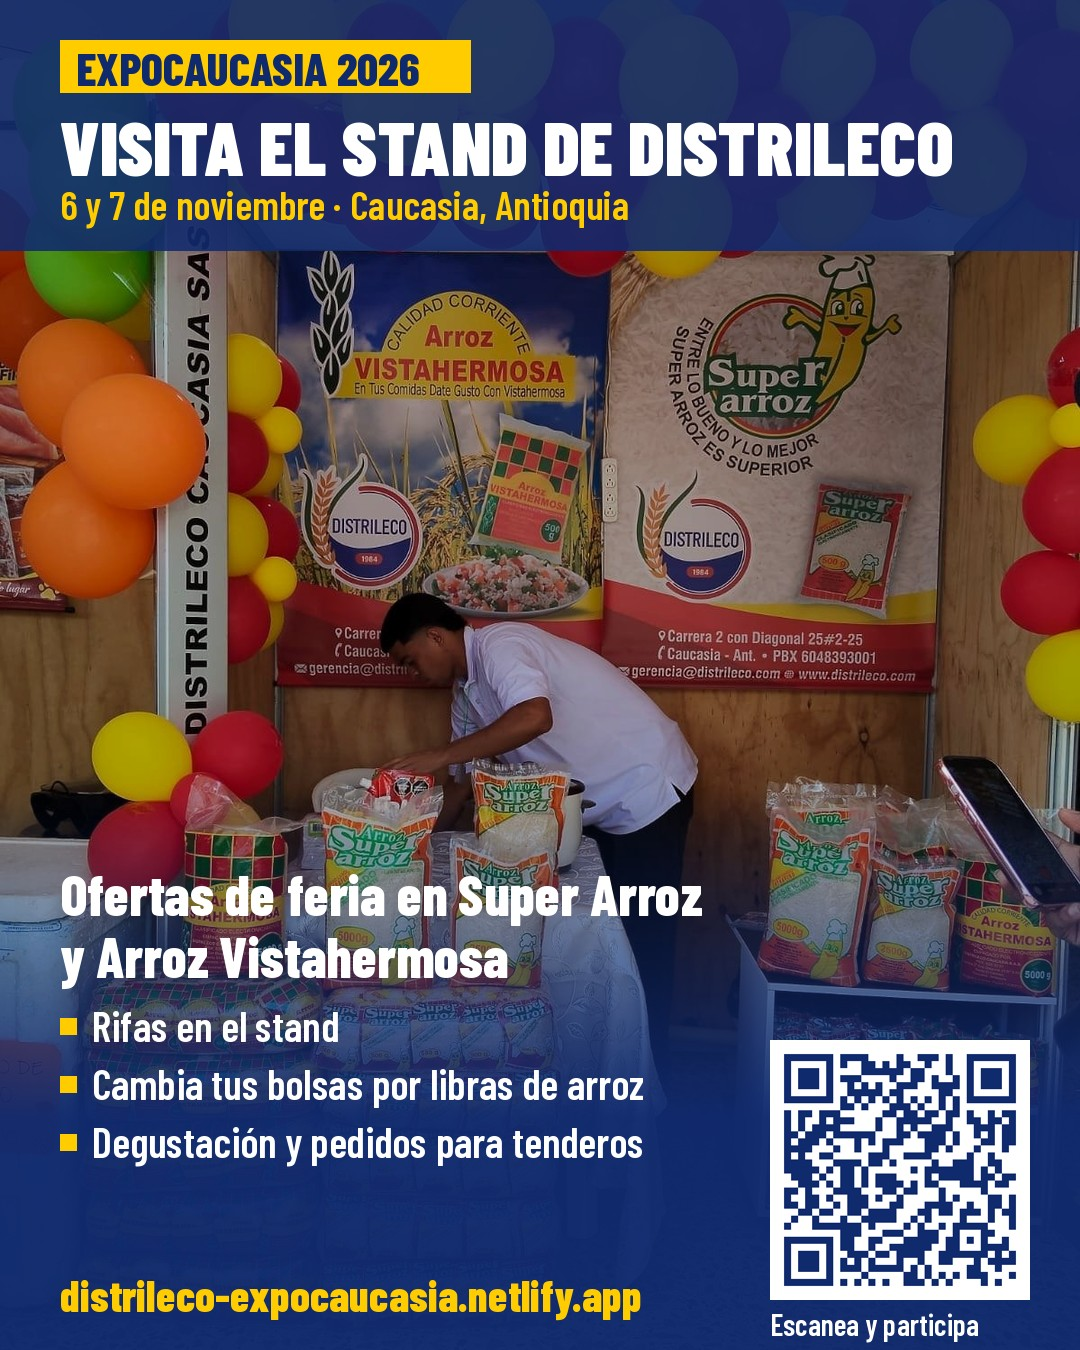
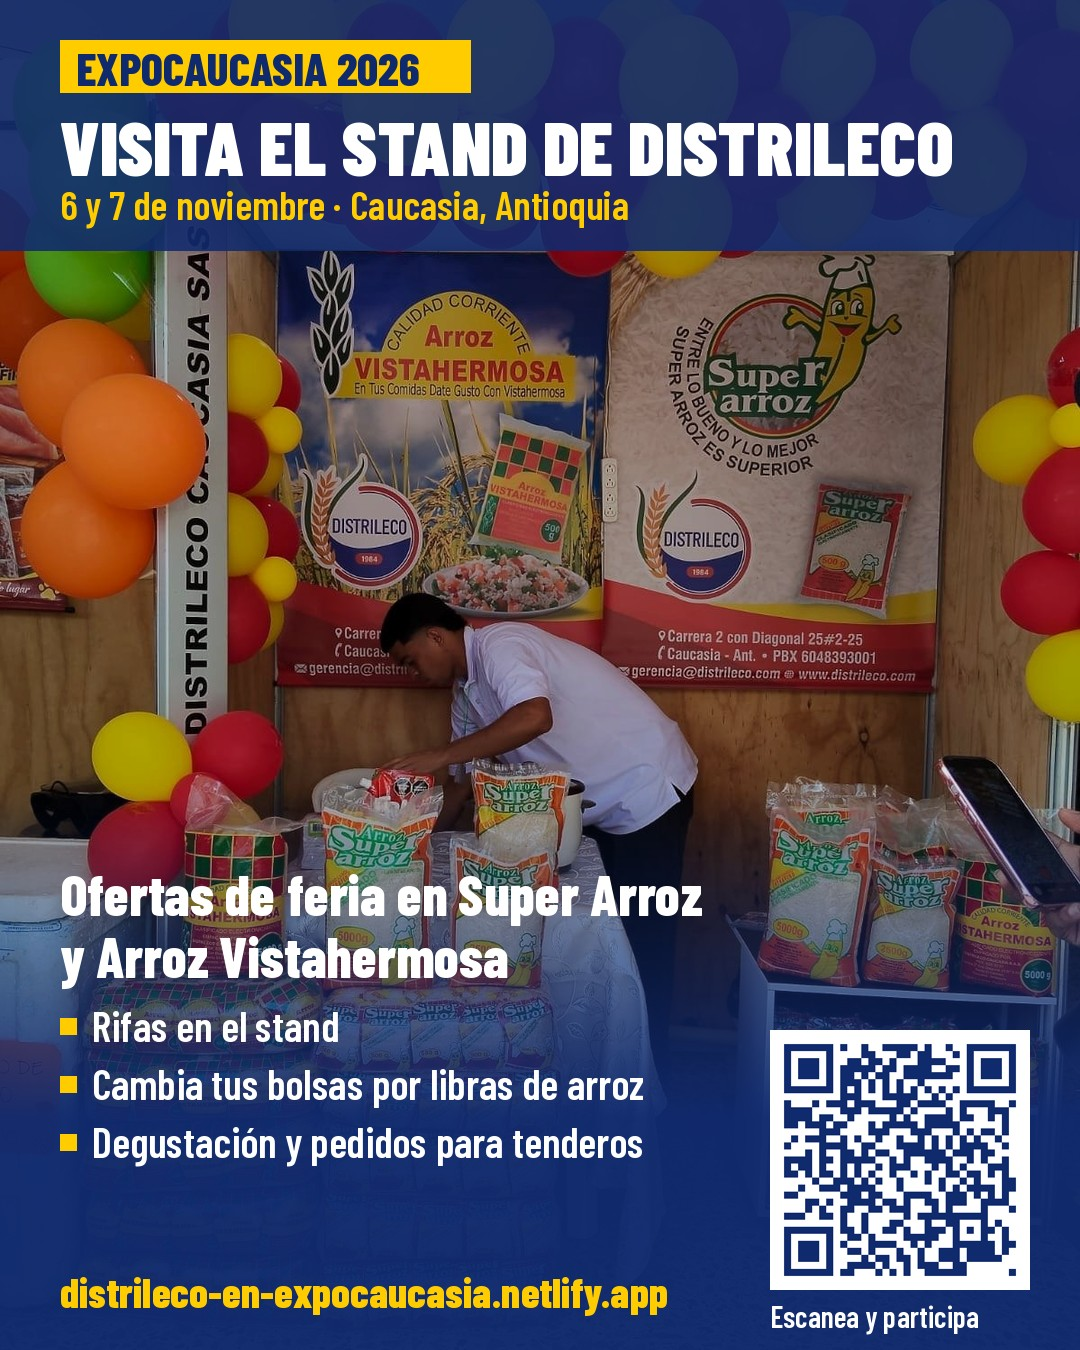
Nueva URL de Netlify: distrileco-en-expocaucasia
Claude-Session: https://claude.ai/code/session_01Qv96KX5aMwpRgENvYY4mgK

Changed region(s): [[0.7028, 0.7467, 0.9472, 0.9956], [0.0611, 0.9333, 0.6417, 0.9956]]

diff --git a/index.html b/index.html
@@ -12,16 +12,16 @@
 <!-- Vista previa del enlace (OG / Twitter) -->
 <meta property="og:title" content="Distrileco en ExpoCaucasia 2026 · Super Arroz y Arroz Vistahermosa">
 <meta property="og:description" content="Ofertas de feria, rifas, cambia tus bolsas por libras de arroz y degustación. 6 y 7 de noviembre, Caucasia.">
-<meta property="og:image" content="https://distrileco-expocaucasia.netlify.app/img/og-image.jpg">
+<meta property="og:image" content="https://distrileco-en-expocaucasia.netlify.app/img/og-image.jpg">
 <meta property="og:image:width" content="1200">
 <meta property="og:image:height" content="630">
-<meta property="og:url" content="https://distrileco-expocaucasia.netlify.app/">
+<meta property="og:url" content="https://distrileco-en-expocaucasia.netlify.app/">
 <meta property="og:type" content="website">
 <meta property="og:locale" content="es_CO">
 <meta name="twitter:card" content="summary_large_image">
 <meta name="twitter:title" content="Distrileco en ExpoCaucasia 2026">
 <meta name="twitter:description" content="Super Arroz y Arroz Vistahermosa: ofertas de feria, rifas y cambio de bolsas por libras de arroz.">
-<meta name="twitter:image" content="https://distrileco-expocaucasia.netlify.app/img/og-image.jpg">
+<meta name="twitter:image" content="https://distrileco-en-expocaucasia.netlify.app/img/og-image.jpg">
 <link rel="preconnect" href="https://fonts.googleapis.com">
 <link rel="preconnect" href="https://fonts.gstatic.com" crossorigin>
 <link href="https://fonts.googleapis.com/css2?family=Barlow+Condensed:wght@500;600;700;800;900&family=Barlow:wght@400;500;600;700&display=swap" rel="stylesheet">
@@ -421,7 +421,7 @@ footer b{color:#fff}
       <img src="img/qr.png" alt="QR">
       <div><h3 style="font-size:34px;color:var(--navy)" data-i="shT">Pásala a tus vecinos</h3>
         <p class="sec-p" style="margin:8px 0 14px" data-i="shP">Escanea el código o comparte el enlace para que más gente llegue al stand.</p>
-        <p class="cond" style="font-size:22px;font-weight:800;color:var(--red);text-transform:none">distrileco-expocaucasia.netlify.app</p>
+        <p class="cond" style="font-size:22px;font-weight:800;color:var(--red);text-transform:none">distrileco-en-expocaucasia.netlify.app</p>
         <button class="btn navy" id="shareBtn2" style="margin-top:12px" data-i="cta3">Compartir</button></div>
     </div>
   </div>
@@ -451,7 +451,7 @@ footer b{color:#fff}
 <script>
 /* ================== CONFIGURACIÓN (edítala aquí) ================== */
 const CONFIG = {
-  url: "https://distrileco-expocaucasia.netlify.app",
+  url: "https://distrileco-en-expocaucasia.netlify.app",
   whatsapp: "573117700431",          // WhatsApp que recibe pedidos y consultas
   expoDias: ["2026-11-06","2026-11-07"],
   // Precios de feria: pon el número (ej. 2900) o deja null para mostrar "Precio de feria en el stand"

diff --git a/README.md b/README.md
@@ -2,7 +2,7 @@
 
 App (PWA) del stand de **Distrileco Caucasia S.A.S.** en ExpoCaucasia 2026 (6 y 7 de noviembre, Caucasia): Super Arroz y Arroz Vistahermosa.
 
-**URL:** https://distrileco-expocaucasia.netlify.app
+**URL:** https://distrileco-en-expocaucasia.netlify.app
 
 ## Qué trae
 - Portada con la foto real del stand, en vivo con la hora de Colombia y la cuenta regresiva al cierre de la feria
@@ -11,7 +11,7 @@ App (PWA) del stand de **Distrileco Caucasia S.A.S.** en ExpoCaucasia 2026 (6 y 
 - Pedido para tenderos que se envía por WhatsApp
 - Recetas, cobertura, contacto, QR y botón de compartir
 - Español / inglés, instalable, funciona sin señal
-- **Sorteo en vivo:** abre `https://distrileco-expocaucasia.netlify.app/?sorteo=1`, pega la lista y presiona Sortear
+- **Sorteo en vivo:** abre `https://distrileco-en-expocaucasia.netlify.app/?sorteo=1`, pega la lista y presiona Sortear
 
 ## Inscripciones a la rifa
 Llegan a **Netlify → el sitio → Forms → rifa-distrileco**. Ahí se descargan en CSV y ese CSV se pega tal cual en el sorteo en vivo (se quitan los WhatsApp repetidos).
